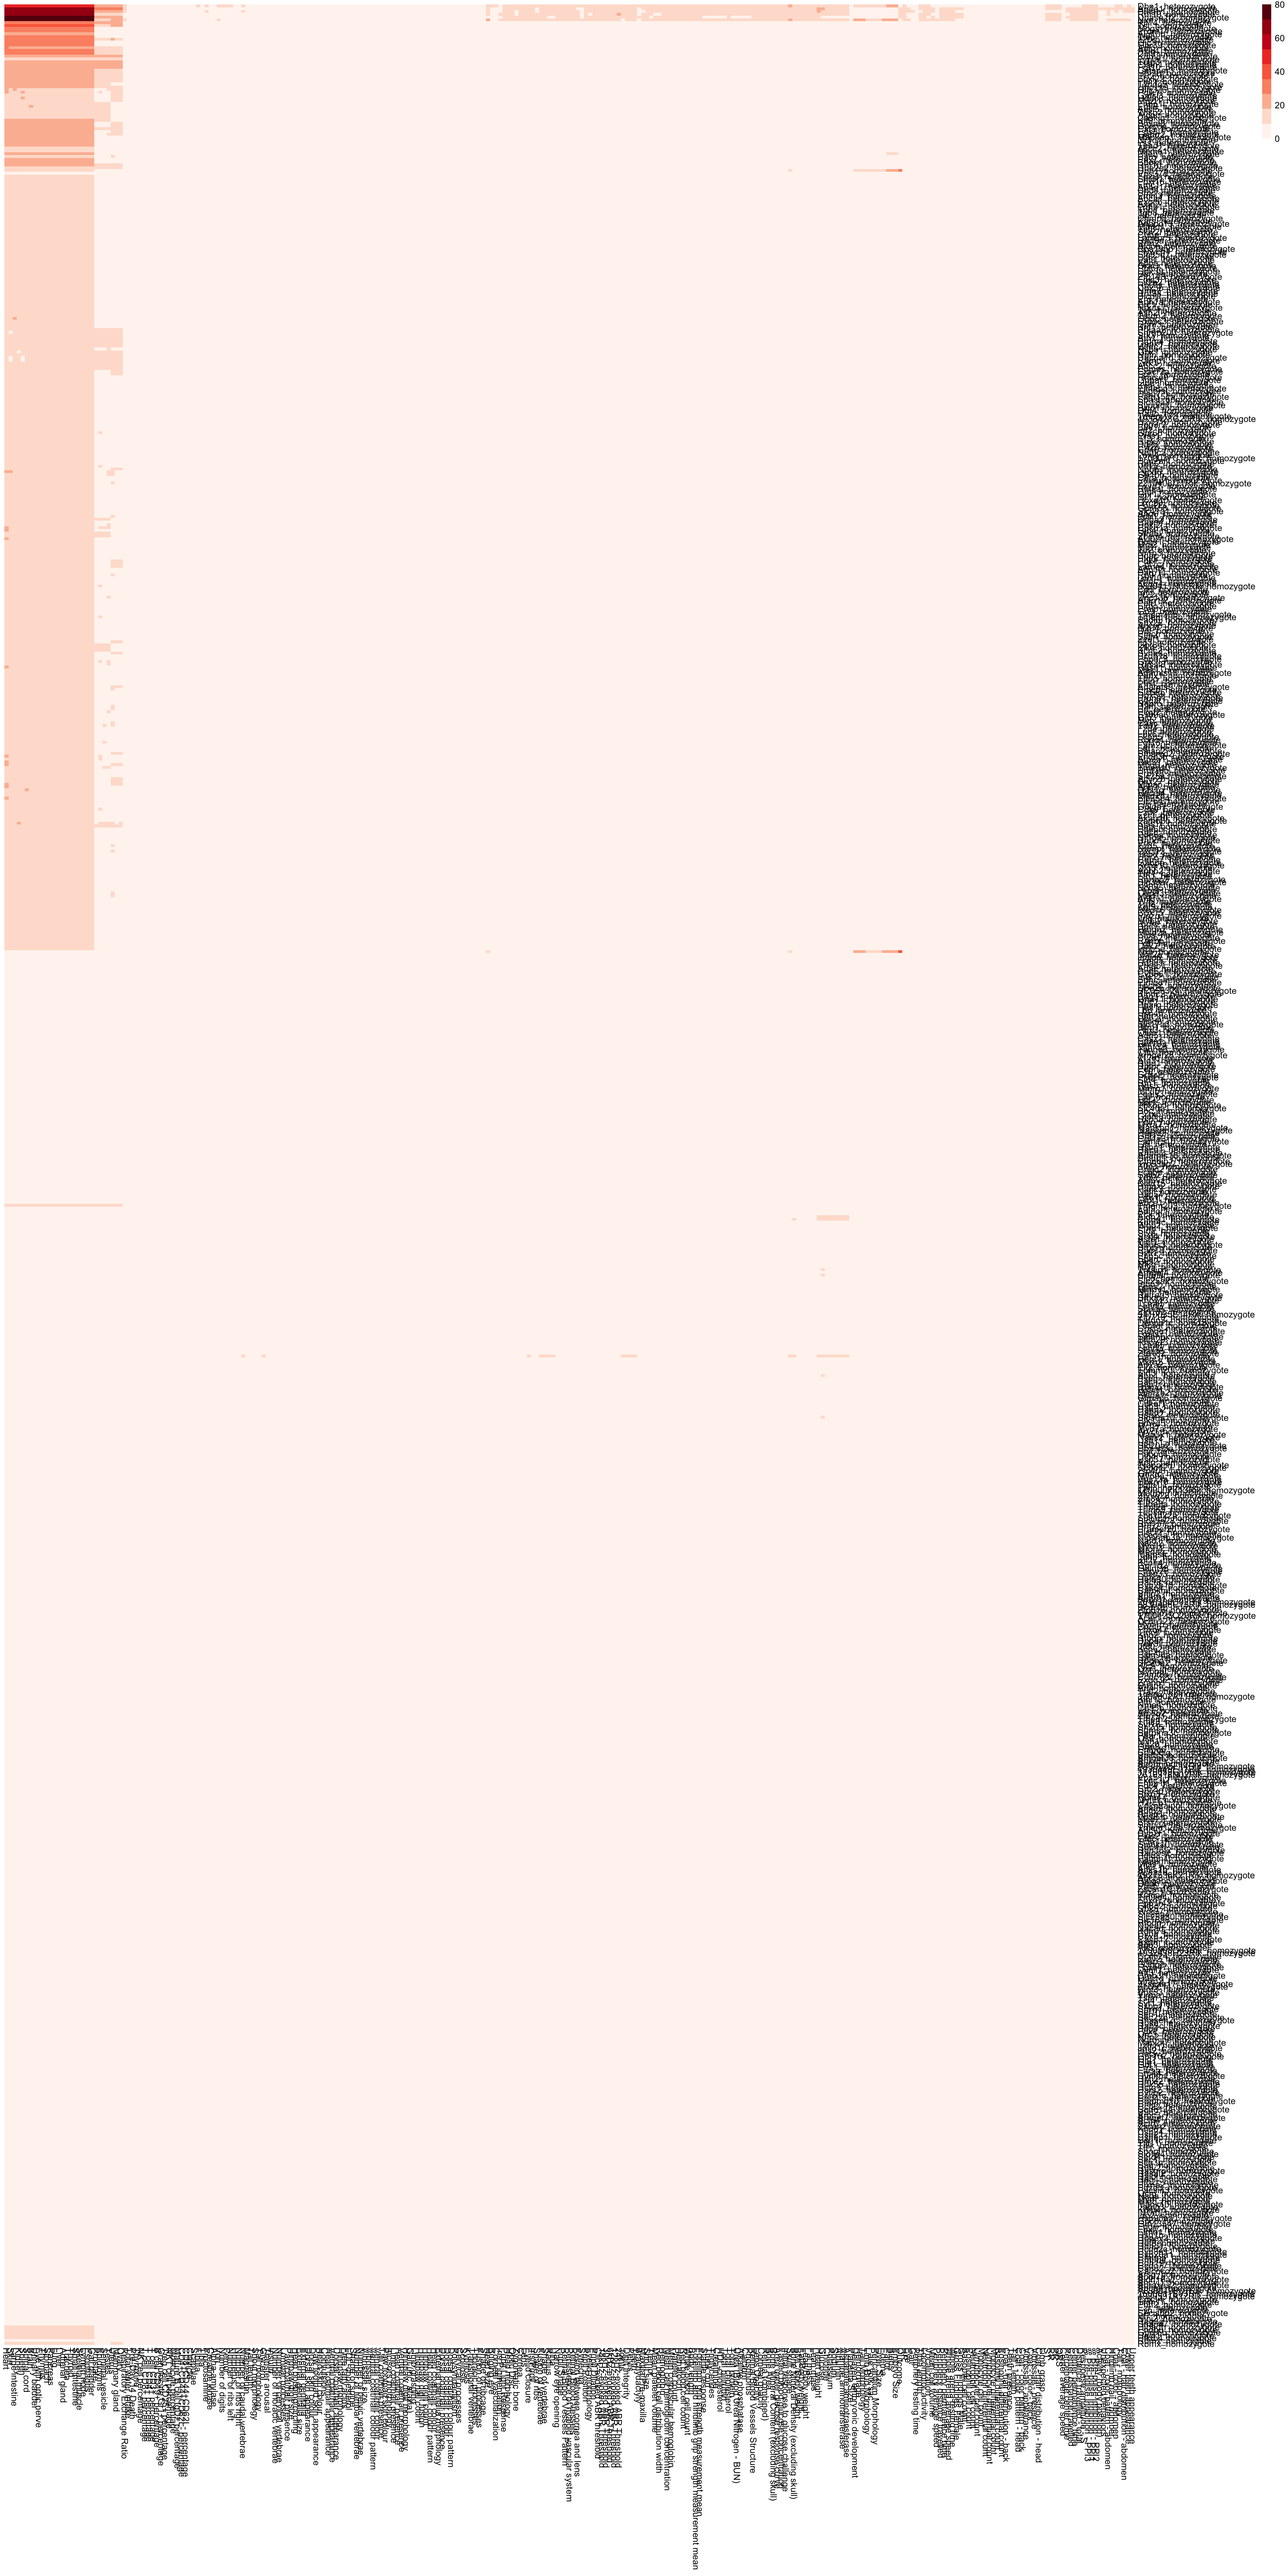
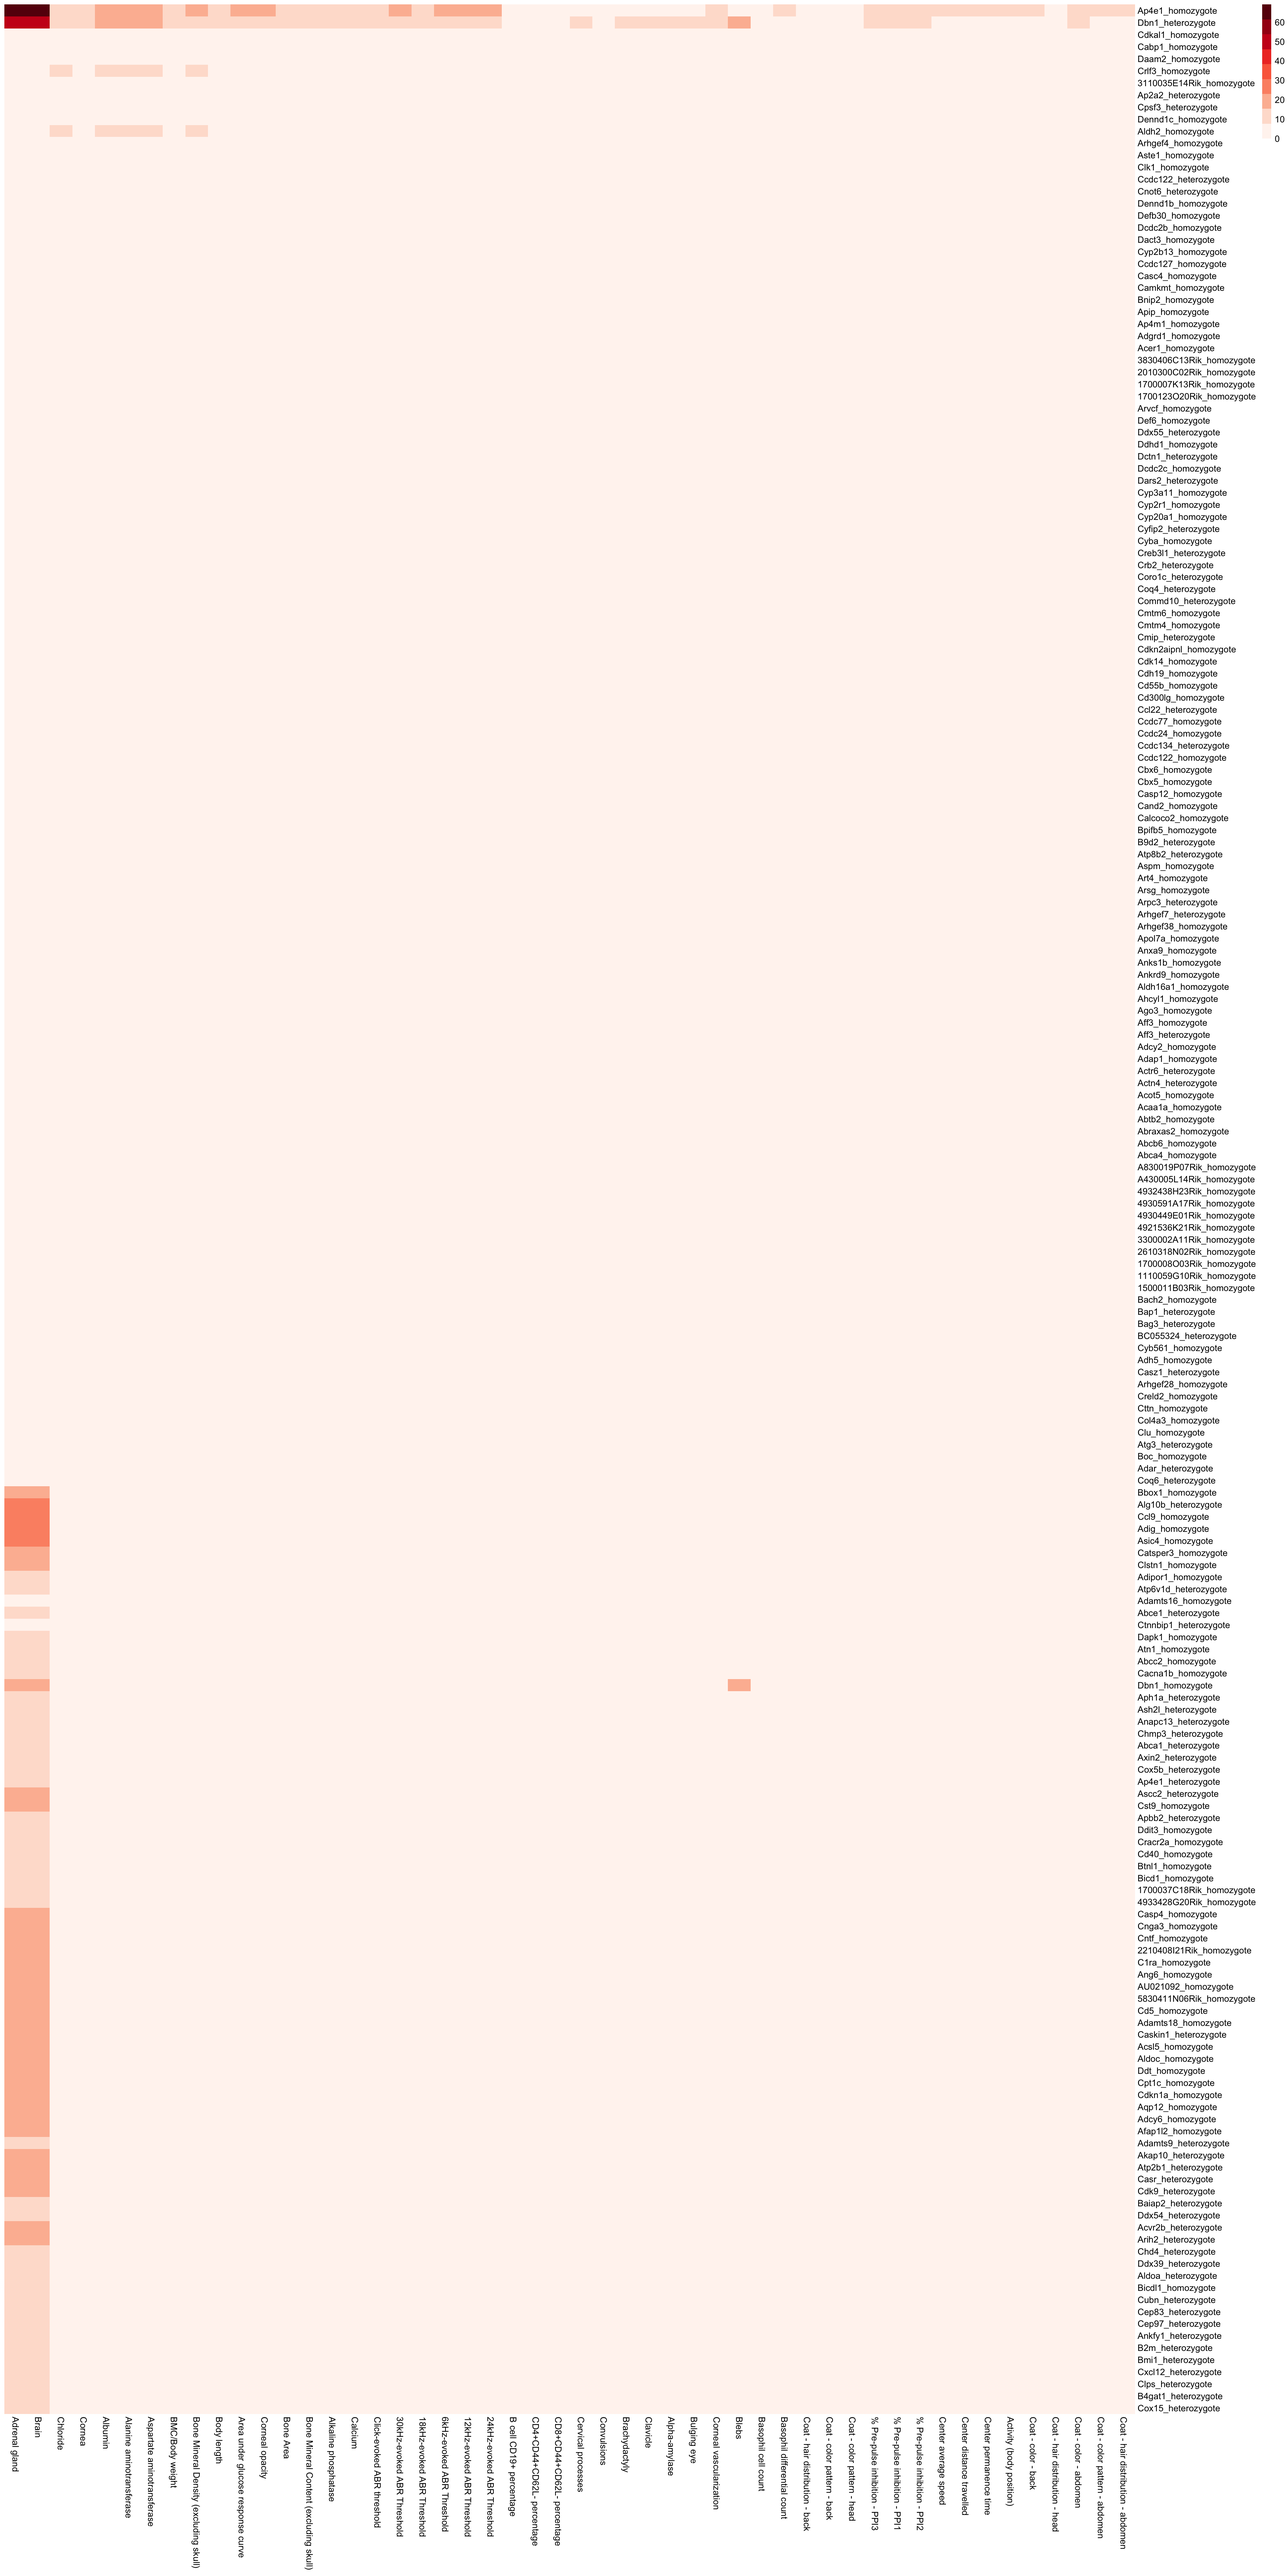
site format updated

Changed region(s): [[0.0, 0.0, 0.9688, 0.9688], [0.0, 0.0, 0.8438, 0.375]]

diff --git a/docs/impc_eda.html b/docs/impc_eda.html
@@ -11,9 +11,9 @@
 
 <meta name="author" content="Donghyung Lee" />
 
-<meta name="date" content="2018-06-08" />
+<meta name="date" content="2018-06-11" />
 
-<title>IMPC summary statistics exploratory data analysis</title>
+<title>IMPC summary stat exploratory data analysis</title>
 
 <script src="site_libs/jquery-1.11.3/jquery.min.js"></script>
 <meta name="viewport" content="width=device-width, initial-scale=1" />
@@ -290,10 +290,7 @@ div.tocify {
       </ul>
       <ul class="nav navbar-nav navbar-right">
         <li>
-  <a href="https://github.com/dleelab/impcsummary">
-    <span class=" source"></span>
-     
-  </a>
+  <a href="https://github.com/dleelab/impcsummary">source</a>
 </li>
       </ul>
     </div><!--/.nav-collapse -->
@@ -311,18 +308,18 @@ div.section {
 
 
 
-<h1 class="title toc-ignore">IMPC summary statistics exploratory data analysis</h1>
+<h1 class="title toc-ignore">IMPC summary stat exploratory data analysis</h1>
 <h4 class="author"><em>Donghyung Lee</em></h4>
-<h4 class="date"><em>2018-06-08</em></h4>
+<h4 class="date"><em>2018-06-11</em></h4>
 
 </div>
 
 
-<p><strong>Last updated:</strong> 2018-06-08</p>
+<p><strong>Last updated:</strong> 2018-06-11</p>
 <strong>workflowr checks:</strong> <small>(Click a bullet for more information)</small>
 <ul>
 <li>
-<p><details> <summary> <strong style="color:red;">✖</strong> <strong>R Markdown file:</strong> uncommitted changes </summary> The R Markdown is untracked by Git. To know which version of the R Markdown file created these results, you’ll want to first commit it to the Git repo. If you’re still working on the analysis, you can ignore this warning. When you’re finished, you can run <code>wflow_publish</code> to commit the R Markdown file and build the HTML.</p>
+<p><details> <summary> <strong style="color:red;">✖</strong> <strong>R Markdown file:</strong> uncommitted changes </summary> The R Markdown file has unstaged changes. To know which version of the R Markdown file created these results, you’ll want to first commit it to the Git repo. If you’re still working on the analysis, you can ignore this warning. When you’re finished, you can run <code>wflow_publish</code> to commit the R Markdown file and build the HTML.</p>
 </details>
 </li>
 <li>
@@ -341,24 +338,99 @@ div.section {
 </details>
 </li>
 <li>
-<p><details> <summary> <strong style="color:blue;">✔</strong> <strong>Repository version:</strong> <a href="https://github.com/dleelab/testproject/tree/e57e5034260789a0a68142c01b8f5deab0f52014" target="_blank">e57e503</a> </summary></p>
+<p><details> <summary> <strong style="color:blue;">✔</strong> <strong>Repository version:</strong> <a href="https://github.com/dleelab/testproject/tree/58149f822c49feee8ee8025adc7d02a2408ee431" target="_blank">58149f8</a> </summary></p>
 Great! You are using Git for version control. Tracking code development and connecting the code version to the results is critical for reproducibility. The version displayed above was the version of the Git repository at the time these results were generated. <br><br> Note that you need to be careful to ensure that all relevant files for the analysis have been committed to Git prior to generating the results (you can use <code>wflow_publish</code> or <code>wflow_git_commit</code>). workflowr only checks the R Markdown file, but you know if there are other scripts or data files that it depends on. Below is the status of the Git repository when the results were generated:
 <pre><code>
 Ignored files:
+    Ignored:    .Rhistory
     Ignored:    .Rproj.user/
 
-Untracked files:
-    Untracked:  analysis/impc_eda.rmd
-
 Unstaged changes:
-    Modified:   README.md
     Modified:   analysis/_site.yml
-    Modified:   analysis/index.Rmd
+    Modified:   analysis/impc_eda.rmd
 
 </code></pre>
 Note that any generated files, e.g. HTML, png, CSS, etc., are not included in this status report because it is ok for generated content to have uncommitted changes. </details>
 </li>
 </ul>
+<details> <summary> <small><strong>Expand here to see past versions:</strong></small> </summary>
+<ul>
+<table style="border-collapse:separate; border-spacing:5px;">
+<thead>
+<tr>
+<th style="text-align:left;">
+File
+</th>
+<th style="text-align:left;">
+Version
+</th>
+<th style="text-align:left;">
+Author
+</th>
+<th style="text-align:left;">
+Date
+</th>
+<th style="text-align:left;">
+Message
+</th>
+</tr>
+</thead>
+<tbody>
+<tr>
+<td style="text-align:left;">
+rmd
+</td>
+<td style="text-align:left;">
+<a href="https://github.com/dleelab/testproject/blob/58149f822c49feee8ee8025adc7d02a2408ee431/analysis/impc_eda.rmd" target="_blank">58149f8</a>
+</td>
+<td style="text-align:left;">
+dleelab
+</td>
+<td style="text-align:left;">
+2018-06-08
+</td>
+<td style="text-align:left;">
+name changed
+</td>
+</tr>
+<tr>
+<td style="text-align:left;">
+rmd
+</td>
+<td style="text-align:left;">
+<a href="https://github.com/dleelab/testproject/blob/a3026c32ec48b63e1c277e093899b78ea153e322/analysis/impc_eda.rmd" target="_blank">a3026c3</a>
+</td>
+<td style="text-align:left;">
+dleelab
+</td>
+<td style="text-align:left;">
+2018-06-08
+</td>
+<td style="text-align:left;">
+IMPC added
+</td>
+</tr>
+<tr>
+<td style="text-align:left;">
+html
+</td>
+<td style="text-align:left;">
+<a href="https://cdn.rawgit.com/dleelab/testproject/a3026c32ec48b63e1c277e093899b78ea153e322/docs/impc_eda.html" target="_blank">a3026c3</a>
+</td>
+<td style="text-align:left;">
+dleelab
+</td>
+<td style="text-align:left;">
+2018-06-08
+</td>
+<td style="text-align:left;">
+IMPC added
+</td>
+</tr>
+</tbody>
+</table>
+</ul>
+<p></details></p>
 <hr />
 <p>Here, I will conduct an exploratory data analysis on the IMPC summary statistics.</p>
 <div id="load-r-packages" class="section level2">
@@ -10756,6 +10828,36 @@ Zygomatic bone
 # Don&#39;t know how to automatically pick scale for object of type table. Defaulting to continuous.
 # `stat_bin()` using `bins = 30`. Pick better value with `binwidth`.</code></pre>
 <p><img src="figure/impc_eda.rmd/phenotype_names-1.png" width="672" style="display: block; margin: auto;" /></p>
+<details> <summary><em>Expand here to see past versions of phenotype_names-1.png:</em></summary>
+<table style="border-collapse:separate; border-spacing:5px;">
+<thead>
+<tr>
+<th style="text-align:left;">
+Version
+</th>
+<th style="text-align:left;">
+Author
+</th>
+<th style="text-align:left;">
+Date
+</th>
+</tr>
+</thead>
+<tbody>
+<tr>
+<td style="text-align:left;">
+<a href="https://github.com/dleelab/testproject/blob/a3026c32ec48b63e1c277e093899b78ea153e322/docs/figure/impc_eda.rmd/phenotype_names-1.png" target="_blank">a3026c3</a>
+</td>
+<td style="text-align:left;">
+dleelab
+</td>
+<td style="text-align:left;">
+2018-06-08
+</td>
+</tr>
+</tbody>
+</table>
+<p></details></p>
 </div>
 <div id="mutant-lines" class="section level2">
 <h2>Mutant Lines</h2>
@@ -70342,10 +70444,38 @@ pheno.mutant &lt;- pheno.mutant[,colSums(pheno.mutant)&gt;=400]
 dim(pheno.mutant)
 # [1] 839 277
 
-#pheatmap(pheno.mutant, color=brewer.pal(9, &quot;Reds&quot;), cluster_rows = F, cluster_cols = F)
-pheatmap(pheno.mutant, color=brewer.pal(9, &quot;Reds&quot;), treeheight_row = 0, treeheight_col = 0)</code></pre>
+pheatmap(pheno.mutant[1:200,1:50], color=brewer.pal(9, &quot;Reds&quot;), treeheight_row = 0, treeheight_col = 0)</code></pre>
 <p><img src="figure/impc_eda.rmd/pheno_mutant-1.png" width="1920" style="display: block; margin: auto;" /></p>
-<pre class="r"><code>#plot_ly(z=pheno.mutant, type=&quot;heatmap&quot;)</code></pre>
+<details> <summary><em>Expand here to see past versions of pheno_mutant-1.png:</em></summary>
+<table style="border-collapse:separate; border-spacing:5px;">
+<thead>
+<tr>
+<th style="text-align:left;">
+Version
+</th>
+<th style="text-align:left;">
+Author
+</th>
+<th style="text-align:left;">
+Date
+</th>
+</tr>
+</thead>
+<tbody>
+<tr>
+<td style="text-align:left;">
+<a href="https://github.com/dleelab/testproject/blob/a3026c32ec48b63e1c277e093899b78ea153e322/docs/figure/impc_eda.rmd/pheno_mutant-1.png" target="_blank">a3026c3</a>
+</td>
+<td style="text-align:left;">
+dleelab
+</td>
+<td style="text-align:left;">
+2018-06-08
+</td>
+</tr>
+</tbody>
+</table>
+<p></details></p>
 </div>
 <div id="session-information" class="section level2">
 <h2>Session information</h2>

diff --git a/docs/license.html b/docs/license.html
@@ -173,15 +173,15 @@ $(document).ready(function () {
         <span class="icon-bar"></span>
         <span class="icon-bar"></span>
       </button>
-      <a class="navbar-brand" href="index.html">testproject</a>
+      <a class="navbar-brand" href="index.html">IMPC Summary</a>
     </div>
     <div id="navbar" class="navbar-collapse collapse">
       <ul class="nav navbar-nav">
         <li>
-  <a href="index.html">Home</a>
+  <a href="index.html">Overview</a>
 </li>
 <li>
-  <a href="about.html">About</a>
+  <a href="impc_eda.html">Analyses</a>
 </li>
 <li>
   <a href="license.html">License</a>
@@ -189,10 +189,7 @@ $(document).ready(function () {
       </ul>
       <ul class="nav navbar-nav navbar-right">
         <li>
-  <a href="https://github.com/dleelab/testproject">
-    <span class=" source"></span>
-     
-  </a>
+  <a href="https://github.com/dleelab/impcsummary">source</a>
 </li>
       </ul>
     </div><!--/.nav-collapse -->
@@ -215,20 +212,25 @@ div.section {
 </div>
 
 
-<p><strong>Last updated:</strong> 2018-06-07</p>
+<p><strong>Last updated:</strong> 2018-06-11</p>
 <strong>workflowr checks:</strong> <small>(Click a bullet for more information)</small>
 <ul>
 <li>
-<p><details> <summary> <strong style="color:blue;">✔</strong> <strong>R Markdown file:</strong> up-to-date </summary></p>
-<p>Great! Since the R Markdown file has been committed to the Git repository, you know the exact version of the code that produced these results.</p>
+<p><details> <summary> <strong style="color:red;">✖</strong> <strong>R Markdown file:</strong> uncommitted changes </summary> The R Markdown file has unstaged changes. To know which version of the R Markdown file created these results, you’ll want to first commit it to the Git repo. If you’re still working on the analysis, you can ignore this warning. When you’re finished, you can run <code>wflow_publish</code> to commit the R Markdown file and build the HTML.</p>
 </details>
 </li>
 <li>
-<p><details> <summary> <strong style="color:blue;">✔</strong> <strong>Repository version:</strong> <a href="https://github.com/dleelab/testproject/tree/35ad9e160a71a145771b0e6fb82fc7078f9fd9f5" target="_blank">35ad9e1</a> </summary></p>
+<p><details> <summary> <strong style="color:blue;">✔</strong> <strong>Repository version:</strong> <a href="https://github.com/dleelab/testproject/tree/58149f822c49feee8ee8025adc7d02a2408ee431" target="_blank">58149f8</a> </summary></p>
 Great! You are using Git for version control. Tracking code development and connecting the code version to the results is critical for reproducibility. The version displayed above was the version of the Git repository at the time these results were generated. <br><br> Note that you need to be careful to ensure that all relevant files for the analysis have been committed to Git prior to generating the results (you can use <code>wflow_publish</code> or <code>wflow_git_commit</code>). workflowr only checks the R Markdown file, but you know if there are other scripts or data files that it depends on. Below is the status of the Git repository when the results were generated:
 <pre><code>
 Ignored files:
+    Ignored:    .Rhistory
     Ignored:    .Rproj.user/
+
+Unstaged changes:
+    Modified:   analysis/_site.yml
+    Modified:   analysis/impc_eda.rmd
+    Modified:   analysis/license.Rmd
 
 </code></pre>
 Note that any generated files, e.g. HTML, png, CSS, etc., are not included in this status report because it is ok for generated content to have uncommitted changes. </details>
@@ -257,6 +259,23 @@ Message
 </tr>
 </thead>
 <tbody>
+<tr>
+<td style="text-align:left;">
+html
+</td>
+<td style="text-align:left;">
+<a href="https://cdn.rawgit.com/dleelab/testproject/e57e5034260789a0a68142c01b8f5deab0f52014/docs/license.html" target="_blank">e57e503</a>
+</td>
+<td style="text-align:left;">
+dleelab
+</td>
+<td style="text-align:left;">
+2018-06-07
+</td>
+<td style="text-align:left;">
+Build site.
+</td>
+</tr>
 <tr>
 <td style="text-align:left;">
 html
@@ -296,9 +315,7 @@ Start workflowr project.
 </ul>
 <p></details></p>
 <hr />
-<p>What license are you using for your code? See <a href="http://choosealicense.com/">choosealicense.com</a> for help deciding. It’s a convention to save a file <code>LICENSE</code> in the root of your Git repo that contains the license text.</p>
-<p>What license are you using for the written content on your site? It is traditional to choose a <a href="https://creativecommons.org/choose/">Creative Commons</a> license for this type of content.</p>
-<p>How should others cite your work? It’s a convention to save a file <code>CITATION</code> in the root of your Git repo that contains the citation information.</p>
+<p>All source code and software in this repository are made available under the terms of the <a href="https://opensource.org/licenses/mit-license.html">MIT license</a>.</p>
 
 <!-- Adjust MathJax settings so that all math formulae are shown using
 TeX fonts only; see
